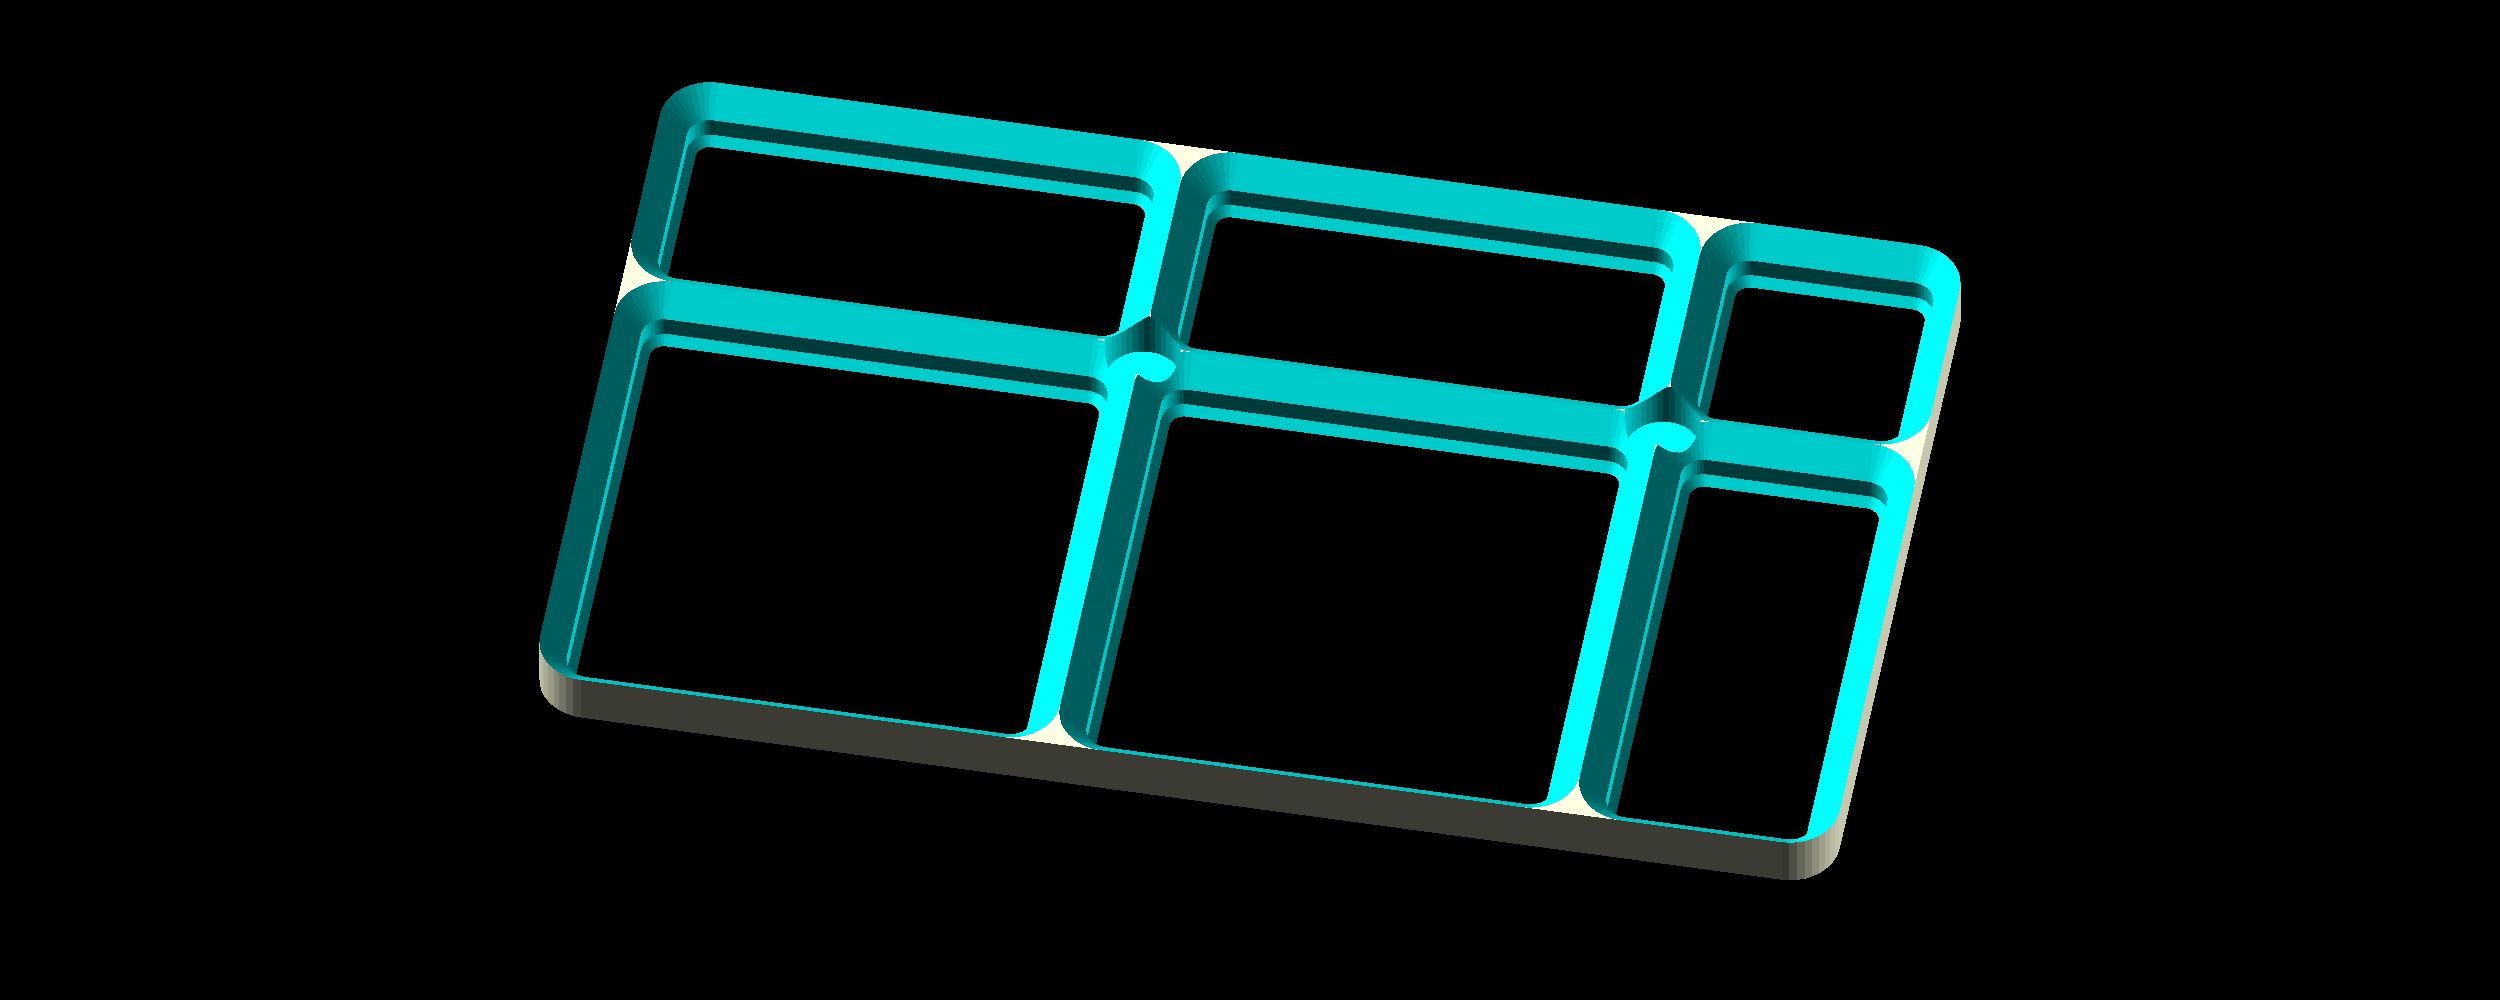
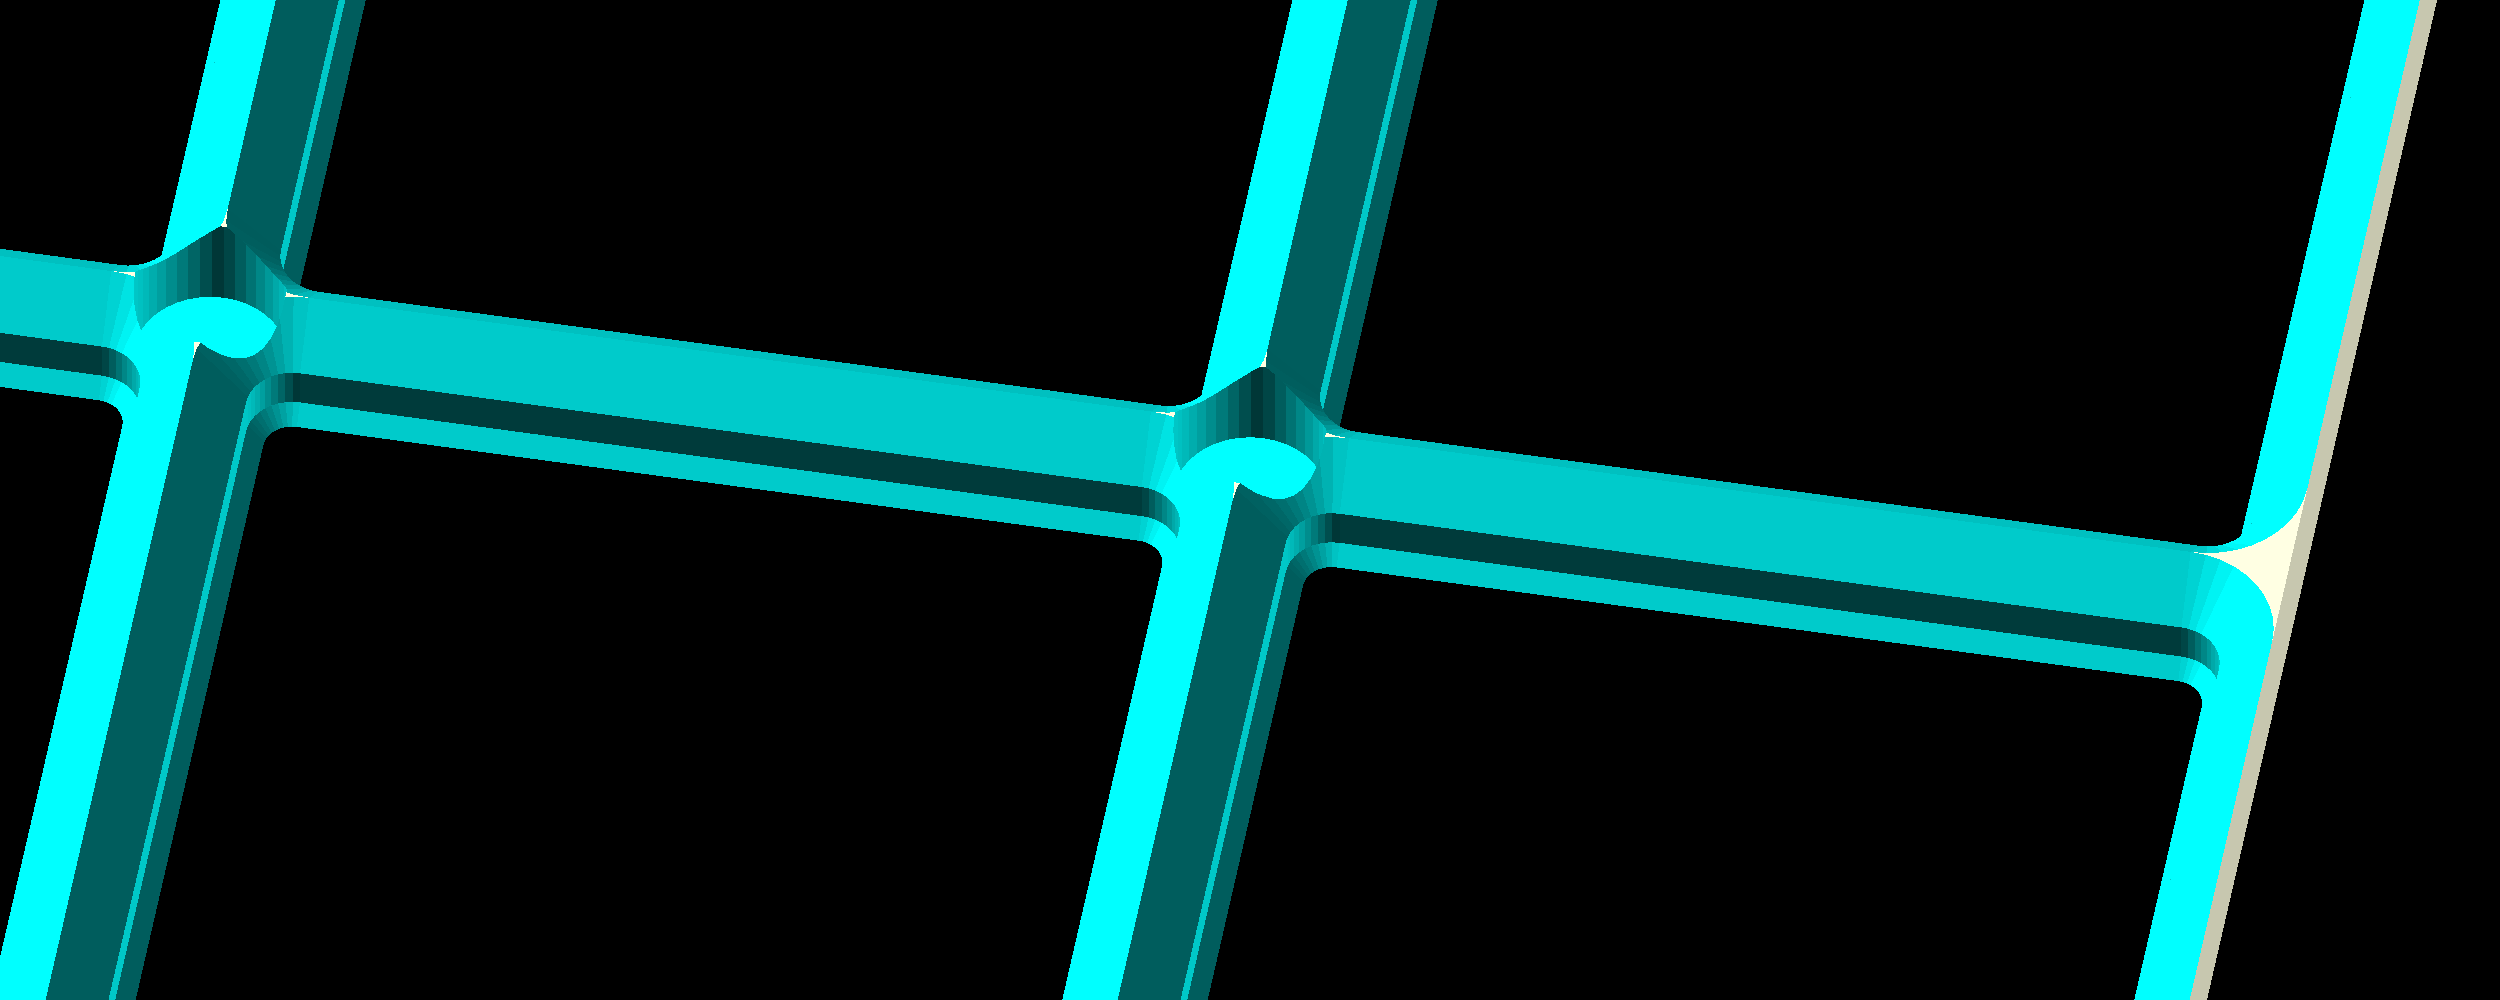
Show bottom magnet holes closer and at an angle in README images

diff --git a/README.md b/README.md
@@ -767,7 +767,7 @@ The exact hole position can be adjusted using `horizontal_screw_offset`. By defa
 
 Bottom magnets hold the baseplate itself in place on a metal surface, such as a steel drawer. They are enabled with `bottom_magnets`, and are independent of the [bin magnets](#magnets) described above. The magnets are placed in pockets on the bottom of the plate, at cell intersections.
 
-<!-- openscad -o docs/images/bottom-magnets.png --camera=0,0,0,180,0,0,750 -D plate_size='[336, 210]' -D 'bed_size=[180, 250]' -D magnets=false -D bottom_magnets=true -->
+<!-- openscad -o docs/images/bottom-magnets.png --camera=0,0,0,140,0,10,190 -D plate_size='[126, 84]' -D magnets=false -D bottom_magnets=true -->
 <img src="docs/images/bottom-magnets.png" alt="Bottom magnets" />
 
 By default, the pockets are open at the bottom. The magnets can be glued in, or press-fit by tuning `bottom_magnet_diameter`. Even loose magnets will keep the plate from sliding around, but they won't hold the plate in place when it's lifted. See [bottom magnet floor](#bottom-magnet-floor) for alternatives.
@@ -786,7 +786,7 @@ Bottom magnets use the same intersection categories as [vertical screws](#screw-
 
 For a stronger hold, `bottom_magnet_other` adds magnets at all other intersections:
 
-<!-- openscad -o docs/images/bottom-magnets-other.png --camera=0,0,0,180,0,0,750 -D plate_size='[336, 210]' -D 'bed_size=[180, 250]' -D magnets=false -D bottom_magnets=true -D bottom_magnet_other=true -->
+<!-- openscad -o docs/images/bottom-magnets-other.png --camera=0,0,0,140,0,10,230 -D plate_size='[168, 84]' -D magnets=false -D bottom_magnets=true -D bottom_magnet_other=true -->
 <img src="docs/images/bottom-magnets-other.png" alt="Bottom magnets at all intersections" />
 
 Intersections on the plate edge or on a segment edge never get a magnet, because there is either no room or a connector in the way.
@@ -797,7 +797,7 @@ Intersections on the plate edge or on a segment edge never get a magnet, because
 
 With a floor, the pocket is fully enclosed, so you have to pause the print at the top of the pocket to insert the magnets. Alternatively, you can set `bottom_magnet_height` to a value larger than the plate height (e.g. 10). The pocket then extends all the way through the plate, and the magnets can be pushed in from the top after printing:
 
-<!-- openscad -o docs/images/bottom-magnets-open-top.png --camera=0,0,0,40,0,10,200 -D plate_size='[105, 63]' -D magnets=false -D bottom_magnets=true -D bottom_magnet_other=true -D bottom_magnet_floor=0.25 -D bottom_magnet_height=10 -->
+<!-- openscad -o docs/images/bottom-magnets-open-top.png --camera=21,0,0,40,0,10,100 -D plate_size='[126, 84]' -D magnets=false -D bottom_magnets=true -D bottom_magnet_floor=0.25 -D bottom_magnet_height=10 -->
 <img src="docs/images/bottom-magnets-open-top.png" alt="Bottom magnets inserted from the top" />
 
 > [!NOTE]
